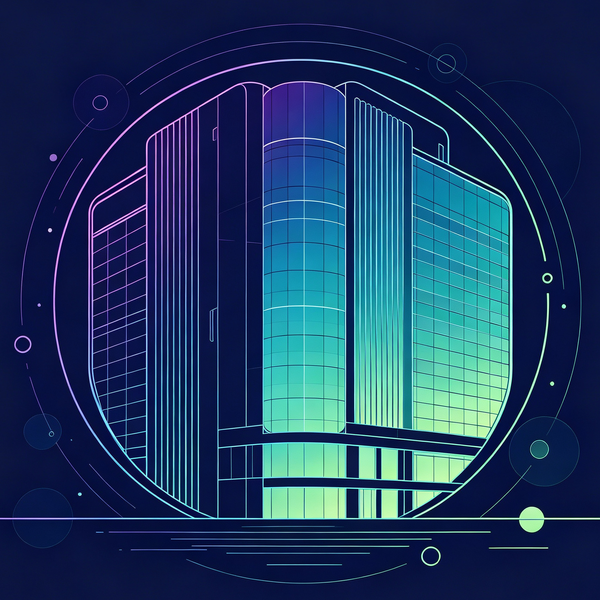
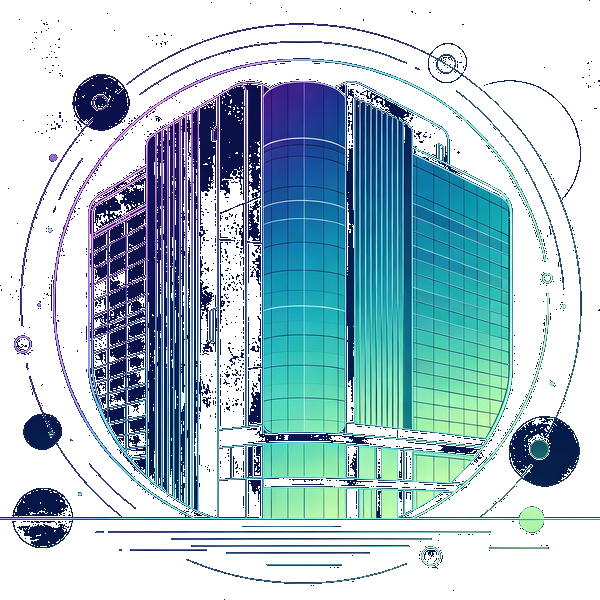
润色文字内容、图片透明背景、视觉增强

diff --git a/styles.css b/styles.css
@@ -70,7 +70,7 @@ body {
     background: rgba(10, 22, 40, 0.92);
     backdrop-filter: blur(20px);
     -webkit-backdrop-filter: blur(20px);
-    box-shadow: 0 4px 24px rgba(0, 0, 0, 0.3);
+    box-shadow: 0 4px 24px rgba(0, 0, 0, 0.3), 0 1px 0 rgba(0, 201, 167, 0.15);
     border-bottom: 1px solid var(--border);
     padding: 10px 0;
 }
@@ -306,6 +306,7 @@ body {
     color: var(--accent);
     letter-spacing: 2px;
     margin-bottom: 16px;
+    animation: fadeInUp 0.6s ease-out both;
 }
 
 .hero-headline {
@@ -314,6 +315,8 @@ body {
     line-height: 1.45;
     color: var(--text);
     margin-bottom: 24px;
+    text-align: justify;
+    animation: fadeInUp 0.7s ease-out 0.1s both;
 }
 
 .hero-features {
@@ -322,6 +325,12 @@ body {
     font-weight: 300;
     margin-bottom: 40px;
     line-height: 1.6;
+    animation: fadeInUp 0.7s ease-out 0.2s both;
+}
+
+@keyframes fadeInUp {
+    from { opacity: 0; transform: translateY(24px); }
+    to { opacity: 1; transform: translateY(0); }
 }
 
 .hero-right {
@@ -334,6 +343,13 @@ body {
     height: auto;
     display: block;
     border-radius: var(--radius-md);
+    filter: drop-shadow(0 8px 24px rgba(0, 201, 167, 0.1));
+    transition: filter 0.4s ease, transform 0.4s ease;
+}
+
+.hero-right:hover .hero-img {
+    filter: drop-shadow(0 12px 36px rgba(0, 201, 167, 0.18));
+    transform: scale(1.03);
 }
 
 .hero-cta {
@@ -349,6 +365,17 @@ body {
     border-radius: 50px;
     transition: var(--transition);
     box-shadow: 0 4px 20px rgba(0, 201, 167, 0.3);
+    position: relative;
+    overflow: hidden;
+    animation: fadeInUp 0.8s ease-out 0.3s both;
+}
+
+.hero-cta::after {
+    content: '';
+    position: absolute;
+    inset: 0;
+    background: linear-gradient(135deg, rgba(255,255,255,0.2) 0%, transparent 50%);
+    pointer-events: none;
 }
 
 .hero-cta:hover {
@@ -432,7 +459,7 @@ section {
     border-radius: var(--radius-lg);
     padding: 40px 32px;
     text-align: center;
-    transition: var(--transition);
+    transition: transform 0.3s ease, border-color 0.3s ease, box-shadow 0.3s ease;
     position: relative;
     overflow: hidden;
 }
@@ -450,14 +477,32 @@ section {
     transition: transform 0.4s ease;
 }
 
+.service-card::after {
+    content: '';
+    position: absolute;
+    inset: 0;
+    background: radial-gradient(circle at 50% 0%, rgba(0,201,167,0.06) 0%, transparent 70%);
+    opacity: 0;
+    transition: opacity 0.4s ease;
+}
+
 .service-card:hover {
-    transform: translateY(-8px);
+    transform: translateY(-6px);
     border-color: rgba(0, 201, 167, 0.4);
-    box-shadow: var(--shadow-glow);
+    box-shadow: 0 12px 40px rgba(0, 201, 167, 0.1);
 }
 
 .service-card:hover::before {
     transform: scaleX(1);
+}
+
+.service-card:hover::after {
+    opacity: 1;
+}
+
+.service-card:hover .service-icon {
+    color: var(--accent-light);
+    transform: scale(1.05);
 }
 
 .service-icon {
@@ -465,11 +510,7 @@ section {
     height: 72px;
     margin: 0 auto 24px;
     color: var(--accent);
-    transition: var(--transition);
-}
-
-.service-card:hover .service-icon {
-    color: var(--accent-light);
+    transition: transform 0.3s ease, color 0.3s ease;
 }
 
 .service-icon svg {
@@ -580,7 +621,7 @@ section {
 
 .about-content {
     display: grid;
-    grid-template-columns: 1.2fr 0.8fr;
+    grid-template-columns: 1fr 1fr;
     gap: 60px;
     align-items: start;
 }
@@ -624,10 +665,16 @@ section {
 .about-img-placeholder svg,
 .about-img {
     width: 100%;
-    max-width: 380px;
     height: auto;
     display: block;
     border-radius: var(--radius-md);
+    filter: drop-shadow(0 6px 20px rgba(0, 201, 167, 0.1));
+    transition: filter 0.4s ease, transform 0.4s ease;
+}
+
+.about-image:hover .about-img {
+    filter: drop-shadow(0 10px 30px rgba(0, 201, 167, 0.18));
+    transform: scale(1.03);
 }
 
 .stat-item {
@@ -2096,4 +2143,136 @@ section {
 .wechat-popup-hint {
     font-size: 0.85rem;
     color: var(--text-muted);
+}
+
+/* ========== 视觉增强 ========== */
+
+/* 服务图标悬停脉冲 */
+.service-icon {
+    transition: transform 0.3s ease, color 0.3s ease;
+}
+.service-card:hover .service-icon {
+    transform: scale(1.08);
+}
+
+/* 优势卡片悬停提升 */
+.advantage-card {
+    transition: transform 0.3s ease, border-color 0.3s ease, box-shadow 0.3s ease, background 0.3s ease;
+}
+.advantage-card:hover {
+    transform: translateY(-3px);
+    box-shadow: 0 8px 32px rgba(0, 201, 167, 0.08);
+}
+
+/* 按钮按压反馈 */
+.hero-cta:active {
+    transform: scale(0.97);
+}
+
+/* 高亮数字卡片悬停 */
+.highlight-card {
+    transition: transform 0.3s ease, background 0.3s ease, border-color 0.3s ease;
+}
+.highlight-card:hover {
+    transform: translateY(-2px);
+}
+
+/* 新闻卡片悬停 */
+.news-card {
+    transition: transform 0.3s ease, border-color 0.3s ease, box-shadow 0.3s ease;
+}
+.news-card:hover {
+    transform: translateY(-3px);
+}
+
+/* 创始人卡片悬停 */
+.founder-card {
+    transition: transform 0.3s ease, border-color 0.3s ease, box-shadow 0.3s ease;
+}
+
+/* 段落期刊名渐变色 */
+em {
+    font-style: normal;
+    background: linear-gradient(135deg, var(--accent), var(--secondary));
+    -webkit-background-clip: text;
+    -webkit-text-fill-color: transparent;
+    background-clip: text;
+    font-weight: 600;
+}
+
+/* 页面 Banner 底部渐变线 */
+.page-banner::after {
+    content: '';
+    position: absolute;
+    bottom: 0;
+    left: 0;
+    right: 0;
+    height: 2px;
+    background: var(--gradient-accent);
+    opacity: 0.3;
+}
+
+/* 图片加载淡入 */
+.hero-img, .about-img {
+    animation: fadeIn 0.8s ease-out;
+}
+
+/* Section 标题渐变色 */
+.section-title {
+    background: linear-gradient(180deg, var(--text) 60%, var(--text-muted) 100%);
+    -webkit-background-clip: text;
+    -webkit-text-fill-color: transparent;
+    background-clip: text;
+}
+
+/* 服务图标圆形背景 */
+.service-icon {
+    position: relative;
+}
+.service-icon::after {
+    content: '';
+    position: absolute;
+    inset: -8px;
+    border-radius: 50%;
+    background: radial-gradient(circle, rgba(0,201,167,0.08) 0%, transparent 70%);
+    opacity: 0;
+    transition: opacity 0.3s ease;
+    z-index: -1;
+}
+.service-card:hover .service-icon::after {
+    opacity: 1;
+}
+
+/* 管道卡片左侧强调线 */
+.pipeline-card {
+    position: relative;
+}
+.pipeline-card::before {
+    content: '';
+    position: absolute;
+    left: 0;
+    top: 20px;
+    bottom: 20px;
+    width: 3px;
+    background: var(--gradient-accent);
+    border-radius: 0 2px 2px 0;
+    opacity: 0;
+    transition: opacity 0.3s ease;
+}
+.pipeline-card:hover::before {
+    opacity: 1;
+}
+
+/* 产品编号呼吸光 */
+.product-number {
+    animation: numberGlow 3s ease-in-out infinite;
+}
+@keyframes numberGlow {
+    0%, 100% { opacity: 0.7; }
+    50% { opacity: 1; }
+}
+
+/* 页脚渐入 */
+.footer {
+    animation: fadeIn 0.8s ease-out;
 }

diff --git a/index.html b/index.html
@@ -20,8 +20,8 @@
         <div class="hero-content">
             <div class="hero-left">
                 <p class="hero-company">核信生物 · Hexin Biotech</p>
-                <h1 class="hero-headline">先进的干细胞与mRNA基因编程技术，专注再生医学前沿领域</h1>
-                <p class="hero-features">完整的干细胞治疗产业链 · 全方位的再生医学解决方案</p>
+                <h1 class="hero-headline">先进的干细胞与mRNA基因编程技术，引领再生医学前沿</h1>
+                <p class="hero-features">干细胞+mRNA 双技术平台 &nbsp;·&nbsp; 生殖健康 &nbsp;·&nbsp; 皮肤抗衰 &nbsp;·&nbsp; 脑神经再生</p>
                 <a href="#services" class="hero-cta">
                     <span>了解更多</span>
                     <svg width="20" height="20" viewBox="0 0 24 24" fill="none" stroke="currentColor" stroke-width="2" stroke-linecap="round" stroke-linejoin="round">
@@ -46,7 +46,7 @@
             <div class="section-header">
                 <span class="section-tag">OUR SERVICES</span>
                 <h2 class="section-title">我们的服务</h2>
-                <p class="section-desc">以先进的干细胞与mRNA基因编程技术为核心，提供全方位的再生医学解决方案</p>
+                <p class="section-desc">三大核心方向，覆盖再生医学关键领域</p>
             </div>
             <div class="services-grid">
                 <div class="service-card" data-aos="fade-up">
@@ -59,7 +59,7 @@
                         </svg>
                     </div>
                     <h3 class="service-title">生殖健康</h3>
-                    <p class="service-desc">修复子宫内膜损伤，改善生殖健康。利用加载VEGFA-mRNA的子宫内膜间质细胞，修复薄型子宫内膜或子宫内膜损伤，为不孕不育患者带来新希望。</p>
+                    <p class="service-desc">通过加载VEGFA-mRNA的子宫内膜间质细胞，精准修复薄型子宫内膜及内膜损伤，为不孕不育患者提供新的治疗选择。</p>
                     <div class="service-badge">IIT临床研究阶段</div>
                 </div>
                 <div class="service-card" data-aos="fade-up" data-aos-delay="100">
@@ -72,7 +72,7 @@
                         </svg>
                     </div>
                     <h3 class="service-title">皮肤抗衰</h3>
-                    <p class="service-desc">帮助恢复肌肤弹性，减少皱纹生成。Collagen-mRNA成纤维细胞产品可在4周内产生10亿个体化细胞，表达胶原蛋白总量理论可达1mg/天。</p>
+                    <p class="service-desc">Collagen-mRNA成纤维细胞产品可在4周内扩增至10亿个体化细胞，胶原蛋白日表达量理论可达1mg，有效恢复肌肤弹性、减少皱纹。</p>
                     <div class="service-badge">小动物实验验证中</div>
                 </div>
                 <div class="service-card" data-aos="fade-up" data-aos-delay="200">
@@ -87,7 +87,7 @@
                         </svg>
                     </div>
                     <h3 class="service-title">脑神经细胞再生</h3>
-                    <p class="service-desc">体外分化神经元，治愈帕金森病等神经退行性疾病。加载谷氨酸recipe的iPSCs-神经元，可分化成治疗脑卒中所需的神经元和胶质细胞。</p>
+                    <p class="service-desc">通过谷氨酸编程的iPSCs定向分化为功能性神经元及胶质细胞，用于修复受损脑组织，为帕金森病、脑卒中等神经退行性疾病提供再生治疗方案。</p>
                     <div class="service-badge">细胞药物开发中</div>
                 </div>
             </div>